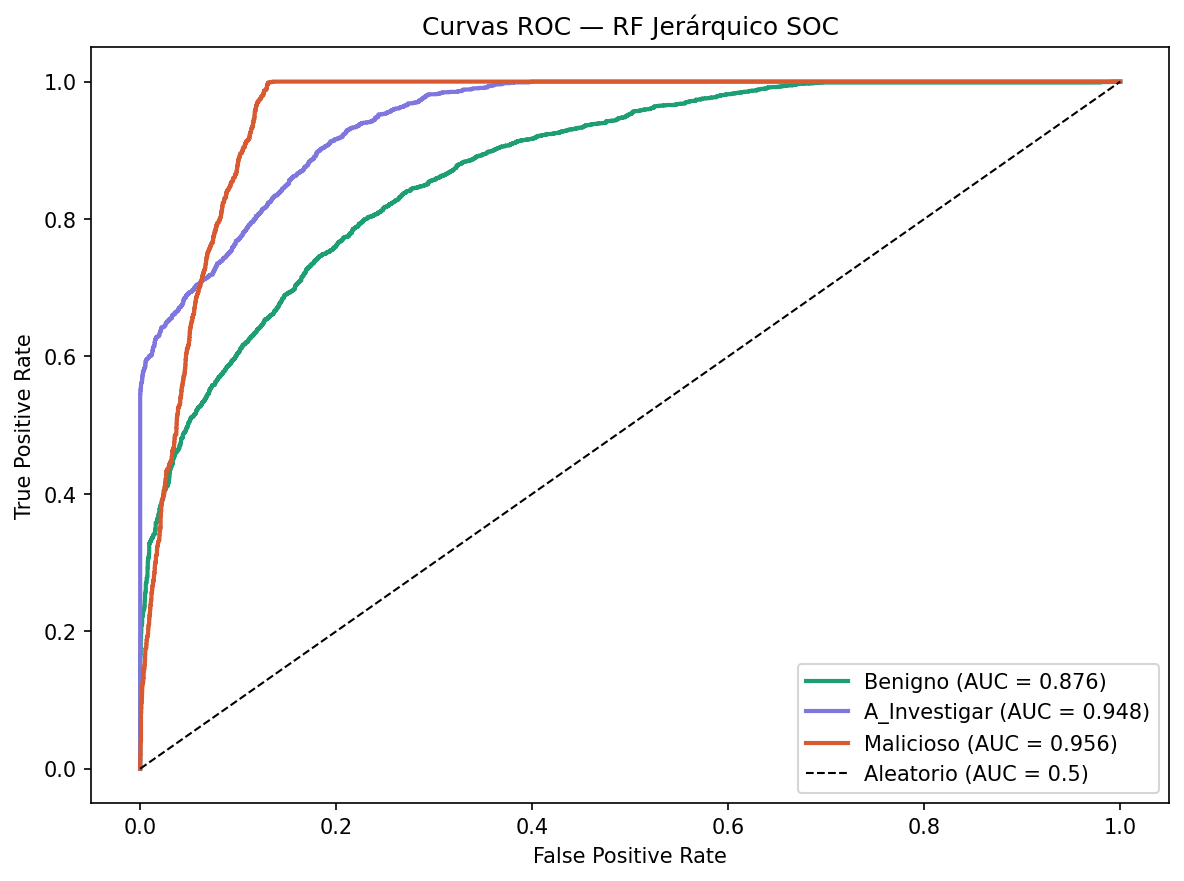
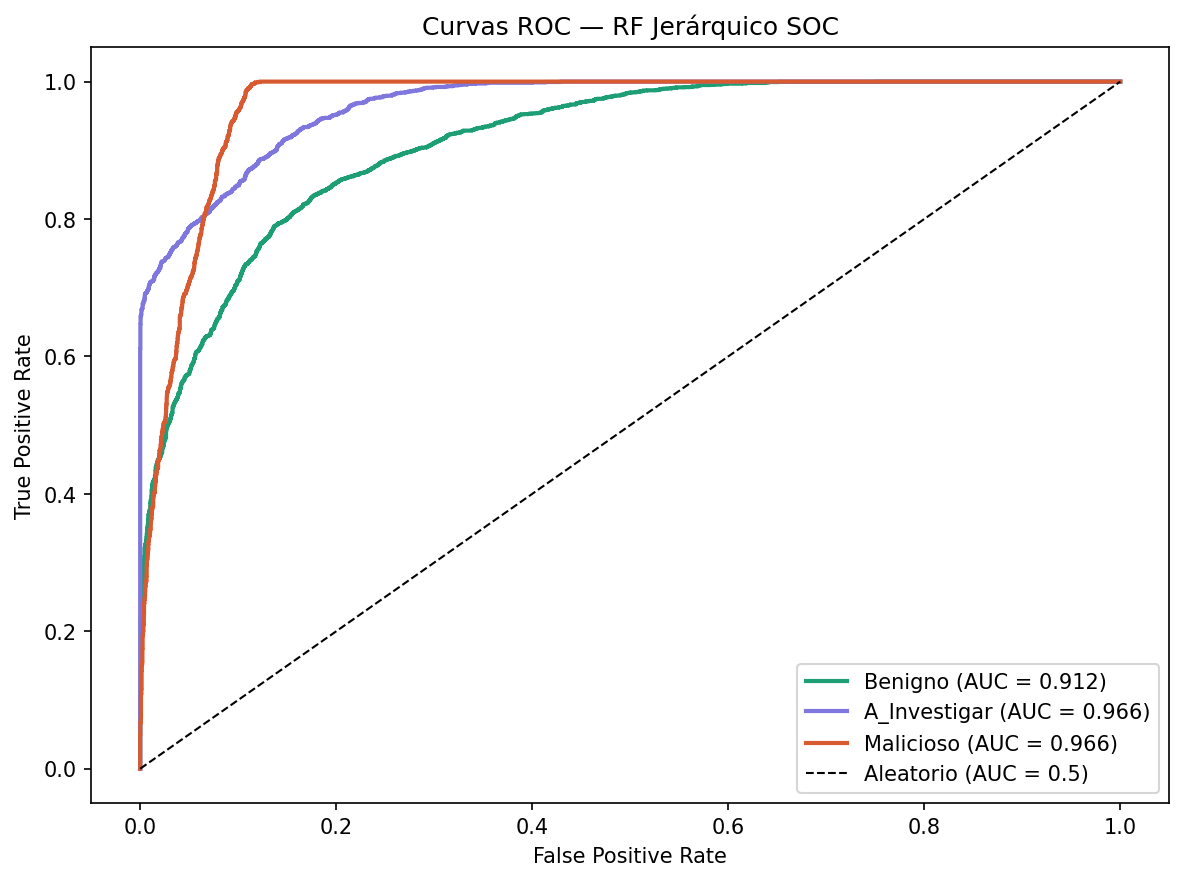
feat: migrate application database to PostgreSQL

diff --git a/soc_project/soc_project/settings.py b/soc_project/soc_project/settings.py
@@ -8,8 +8,8 @@ load_dotenv(BASE_DIR.parent / '.env')
 
 SECRET_KEY = os.environ.get('DJANGO_SECRET_KEY', 'django-insecure-change-this-key')
 ANTHROPIC_API_KEY = os.environ.get('ANTHROPIC_API_KEY', '')
-DEBUG = True
-ALLOWED_HOSTS = []
+DEBUG = os.environ.get('DJANGO_DEBUG', 'True') == 'True'
+ALLOWED_HOSTS = os.environ.get('ALLOWED_HOSTS', '').split(',') if os.environ.get('ALLOWED_HOSTS') else []
 
 INSTALLED_APPS = [
     'django.contrib.admin',
@@ -57,12 +57,24 @@ TEMPLATES = [
 
 WSGI_APPLICATION = 'soc_project.wsgi.application'
 
-DATABASES = {
-    'default': {
-        'ENGINE': 'django.db.backends.sqlite3',
-        'NAME': BASE_DIR / 'db.sqlite3',
+if os.environ.get('DB_HOST'):
+    DATABASES = {
+        'default': {
+            'ENGINE': 'django.db.backends.postgresql',
+            'NAME': os.environ.get('DB_NAME', 'soc_db'),
+            'USER': os.environ.get('DB_USER', 'postgres'),
+            'PASSWORD': os.environ.get('DB_PASSWORD', ''),
+            'HOST': os.environ.get('DB_HOST'),
+            'PORT': os.environ.get('DB_PORT', '5432'),
+        }
     }
-}
+else:
+    DATABASES = {
+        'default': {
+            'ENGINE': 'django.db.backends.sqlite3',
+            'NAME': BASE_DIR / 'db.sqlite3',
+        }
+    }
 
 AUTH_PASSWORD_VALIDATORS = []
 
@@ -72,6 +84,7 @@ USE_I18N = True
 USE_TZ = True
 
 STATIC_URL = 'static/'
+STATIC_ROOT = BASE_DIR / 'staticfiles'
 DEFAULT_AUTO_FIELD = 'django.db.models.BigAutoField'
 
 LOGIN_URL = 'login'

diff --git a/soc_project/predictor/views.py b/soc_project/predictor/views.py
@@ -460,7 +460,7 @@ def upload_alerts_view(request):
 
             # Fase 4 — un único INSERT para todos los registros válidos
             if alert_instances:
-                Alert.objects.bulk_create(alert_instances)
+                Alert.objects.bulk_create(alert_instances, batch_size=500)
                 processed.extend(pending_processed)
 
     except Exception as exc:
@@ -1067,7 +1067,7 @@ def pipeline_normalize_view(request):
 
         if alert_instances:
             try:
-                Alert.objects.bulk_create(alert_instances)
+                Alert.objects.bulk_create(alert_instances, batch_size=500)
                 saved_count = len(alert_instances)
             except Exception as exc:
                 log_error(request.user, 'pipeline_normalize_save', f'bulk_create: {exc}')
